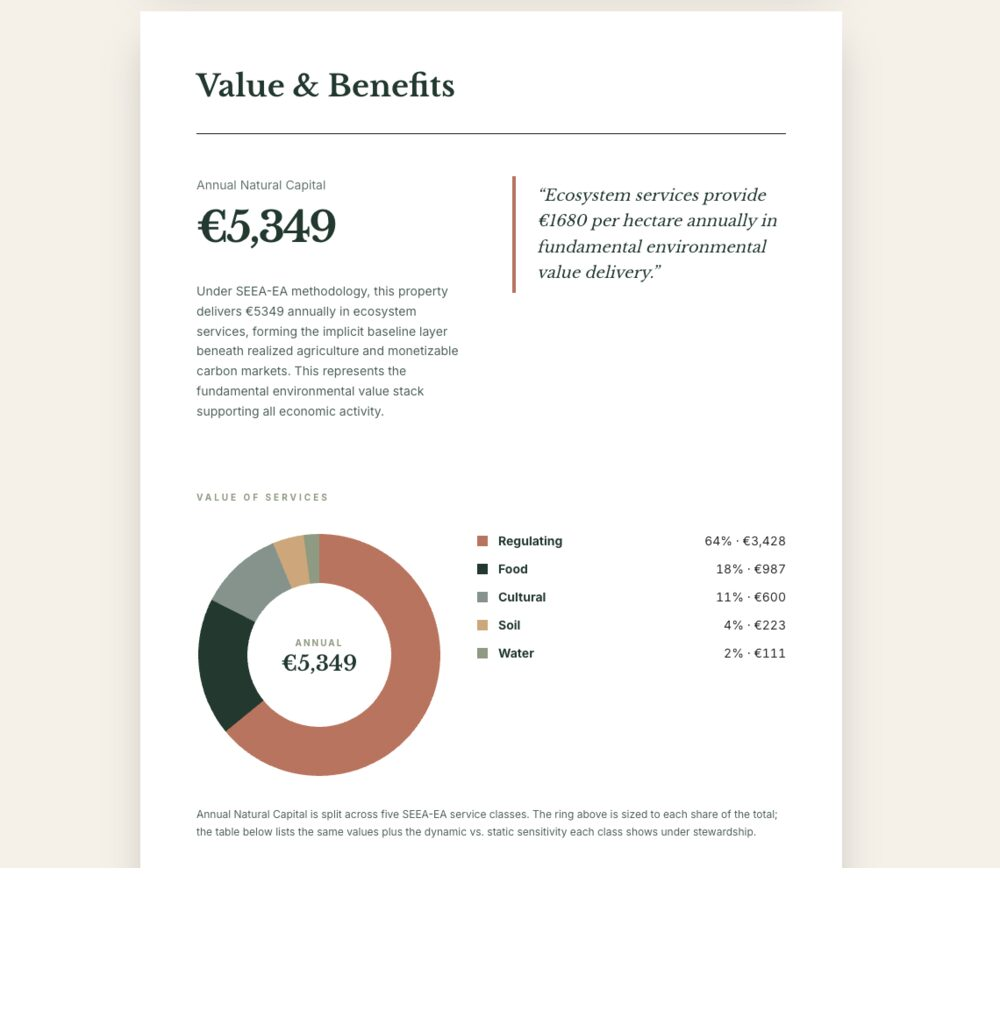
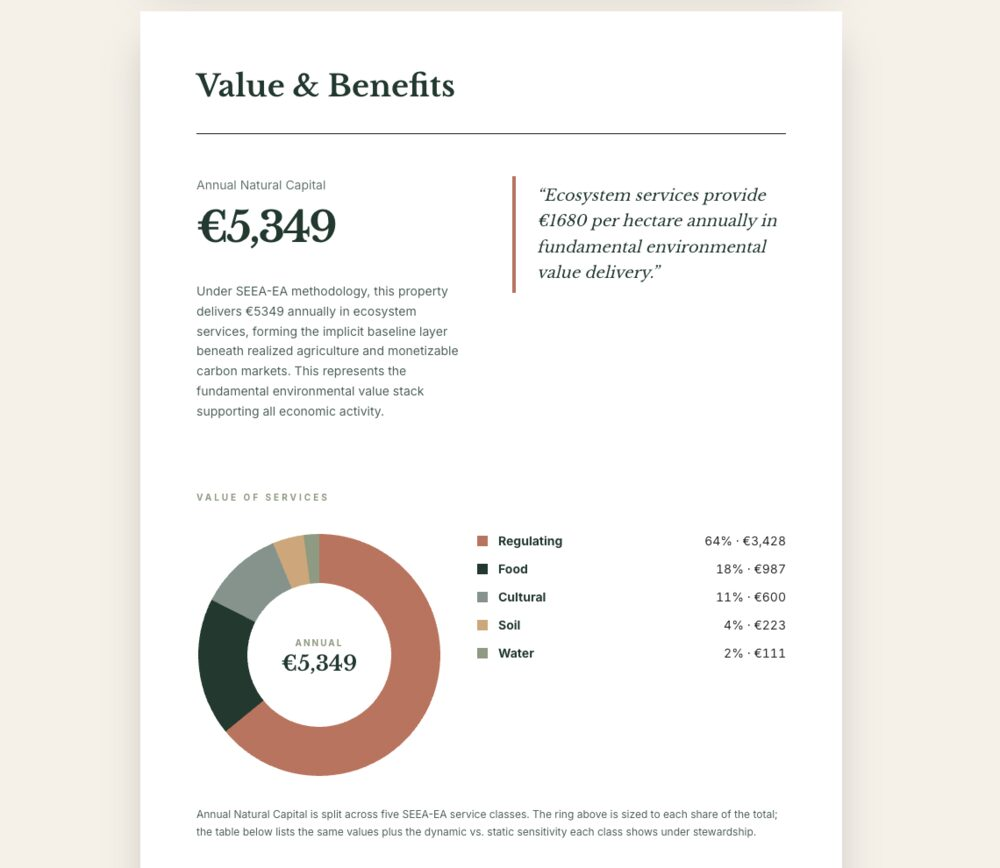
slider: fit frame height to each slide (kill the dead whitespace)
The sections are genuinely different heights, so a fixed-height frame left a
white block under the shorter slides. Now the active slide sits in normal
flow and the others stack behind it faded out, so the frame height follows
the active slide. Images re-cropped tight to their content (no padding).
Applies to both the homepage (CSS/JS) and the /agents SampleSlider.

diff --git a/landbook-app/components/agents/SampleSlider.tsx b/landbook-app/components/agents/SampleSlider.tsx
@@ -4,10 +4,10 @@ import { useEffect, useState } from "react";
 import Image from "next/image";
 
 const SLIDES = [
-  { src: "/landbook-slide-cover.jpg", alt: "LandBook cover page" },
-  { src: "/landbook-slide-overview.jpg", alt: "LandBook overview page" },
-  { src: "/landbook-slide-value.jpg", alt: "LandBook value and benefits page" },
-  { src: "/landbook-slide-biodiversity.jpg", alt: "LandBook biodiversity and habitat page" },
+  { src: "/landbook-slide-cover.jpg", alt: "LandBook cover page", w: 1000, h: 1049 },
+  { src: "/landbook-slide-overview.jpg", alt: "LandBook overview page", w: 1000, h: 864 },
+  { src: "/landbook-slide-value.jpg", alt: "LandBook value and benefits page", w: 1000, h: 868 },
+  { src: "/landbook-slide-biodiversity.jpg", alt: "LandBook biodiversity and habitat page", w: 1000, h: 996 },
 ];
 
 const arrowClass =
@@ -36,24 +36,24 @@ export function SampleSlider({ label }: { label: string }) {
       aria-roledescription="carousel"
       aria-label={label}
     >
-      <div className="overflow-hidden rounded-lg bg-white shadow-2xl">
-        <div
-          className="flex transition-transform duration-500 ease-out"
-          style={{ transform: `translateX(-${index * 100}%)` }}
-        >
-          {SLIDES.map((s, i) => (
-            <Image
-              key={s.src}
-              src={s.src}
-              alt={s.alt}
-              width={1000}
-              height={1294}
-              priority={i === 0}
-              sizes="(min-width: 1400px) 900px, 100vw"
-              className="w-full flex-[0_0_100%]"
-            />
-          ))}
-        </div>
+      {/* Height follows the active slide so there's no dead whitespace. */}
+      <div className="relative overflow-hidden rounded-lg bg-white shadow-2xl">
+        {SLIDES.map((s, i) => (
+          <Image
+            key={s.src}
+            src={s.src}
+            alt={s.alt}
+            width={s.w}
+            height={s.h}
+            priority={i === 0}
+            sizes="(min-width: 1400px) 900px, 100vw"
+            className={
+              i === index
+                ? "relative h-auto w-full opacity-100 transition-opacity duration-500"
+                : "pointer-events-none absolute left-0 top-0 h-auto w-full opacity-0 transition-opacity duration-500"
+            }
+          />
+        ))}
       </div>
 
       <button

diff --git a/index.html b/index.html
@@ -136,10 +136,10 @@
           <div class="report-slider" id="landbook-slider">
             <div class="report-slider-frame">
               <div class="report-slider-track">
-                <img class="report-slide" src="/landbook-slide-cover.jpg" alt="LandBook cover page" width="1000" height="1294" decoding="async" />
-                <img class="report-slide" src="/landbook-slide-overview.jpg" alt="LandBook overview page" width="1000" height="1294" loading="lazy" decoding="async" />
-                <img class="report-slide" src="/landbook-slide-value.jpg" alt="LandBook value and benefits page" width="1000" height="1294" loading="lazy" decoding="async" />
-                <img class="report-slide" src="/landbook-slide-biodiversity.jpg" alt="LandBook biodiversity and habitat page" width="1000" height="1294" loading="lazy" decoding="async" />
+                <img class="report-slide is-active" src="/landbook-slide-cover.jpg" alt="LandBook cover page" width="1000" height="1049" decoding="async" />
+                <img class="report-slide" src="/landbook-slide-overview.jpg" alt="LandBook overview page" width="1000" height="864" loading="lazy" decoding="async" />
+                <img class="report-slide" src="/landbook-slide-value.jpg" alt="LandBook value and benefits page" width="1000" height="868" loading="lazy" decoding="async" />
+                <img class="report-slide" src="/landbook-slide-biodiversity.jpg" alt="LandBook biodiversity and habitat page" width="1000" height="996" loading="lazy" decoding="async" />
               </div>
             </div>
             <button class="report-slider-arrow prev" type="button" aria-label="Previous page">

diff --git a/src/pages/home.js b/src/pages/home.js
@@ -276,7 +276,6 @@ if (nlForm) {
 
 const lbSlider = document.getElementById('landbook-slider');
 if (lbSlider) {
-    const track = lbSlider.querySelector('.report-slider-track');
     const slides = lbSlider.querySelectorAll('.report-slide');
     const dots = lbSlider.querySelectorAll('.report-slider-dot');
     const prevBtn = lbSlider.querySelector('.report-slider-arrow.prev');
@@ -286,7 +285,7 @@ if (lbSlider) {
 
     function go(i) {
         index = (i + slides.length) % slides.length;
-        track.style.transform = `translateX(-${index * 100}%)`;
+        slides.forEach((s, si) => s.classList.toggle('is-active', si === index));
         dots.forEach((d, di) => d.classList.toggle('is-active', di === index));
     }
     function start() { stop(); timer = setInterval(() => go(index + 1), 6000); }

diff --git a/src/styles/main.css b/src/styles/main.css
@@ -1170,6 +1170,7 @@ a {
 }
 
 .report-slider-frame {
+  position: relative;
   border-radius: var(--radius-lg);
   overflow: hidden;
   background: #fff;
@@ -1177,15 +1178,27 @@ a {
 }
 
 .report-slider-track {
-  display: flex;
-  transition: transform 0.5s cubic-bezier(0.4, 0, 0.2, 1);
+  position: relative;
 }
 
+/* The active slide sits in normal flow so the frame height matches it;
+   the others stack behind it, faded out. No dead whitespace below. */
 .report-slide {
-  flex: 0 0 100%;
+  position: absolute;
+  top: 0;
+  left: 0;
   width: 100%;
   height: auto;
   display: block;
+  opacity: 0;
+  pointer-events: none;
+  transition: opacity 0.5s ease;
+}
+
+.report-slide.is-active {
+  position: relative;
+  opacity: 1;
+  pointer-events: auto;
 }
 
 .report-slider-arrow {
